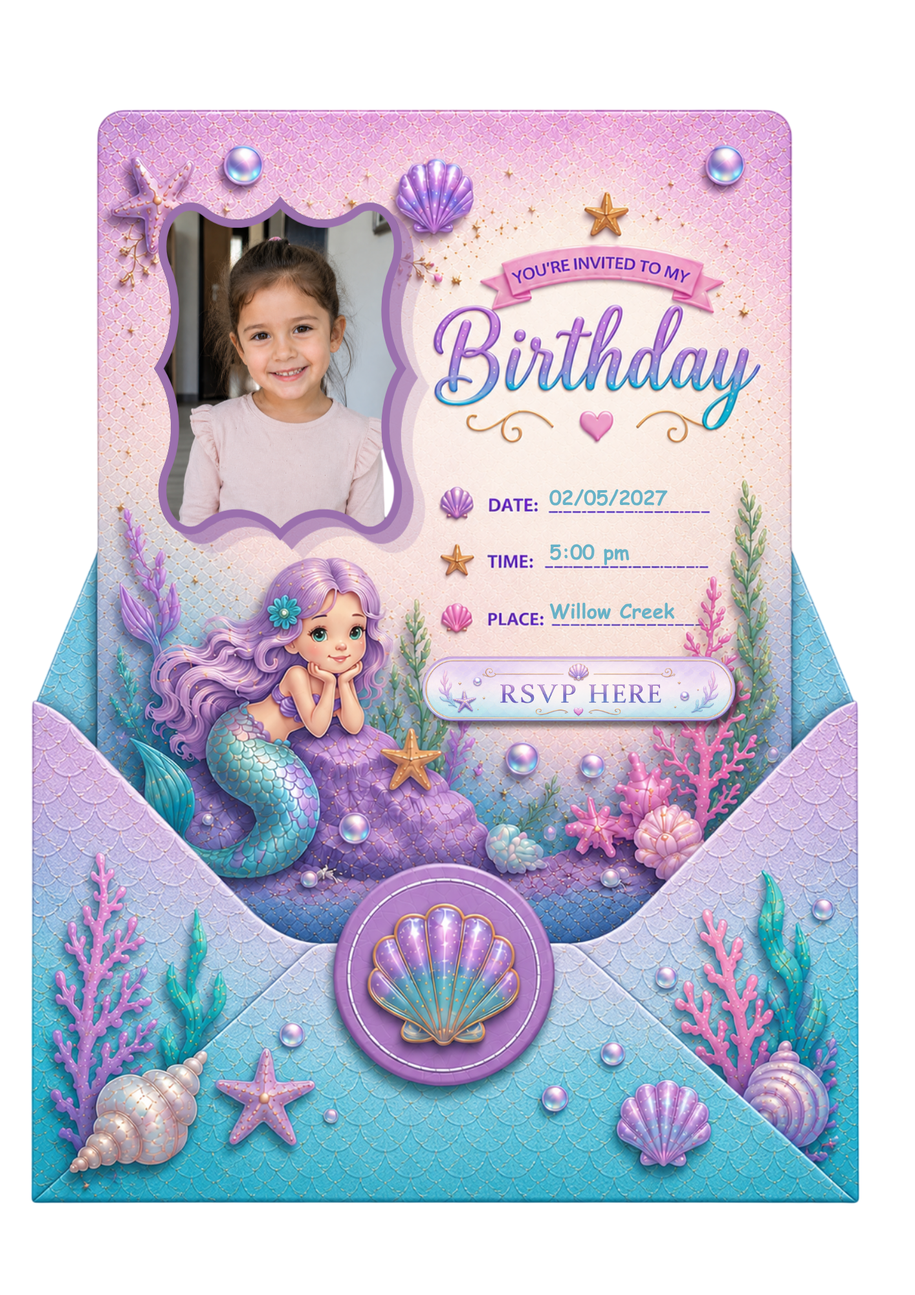
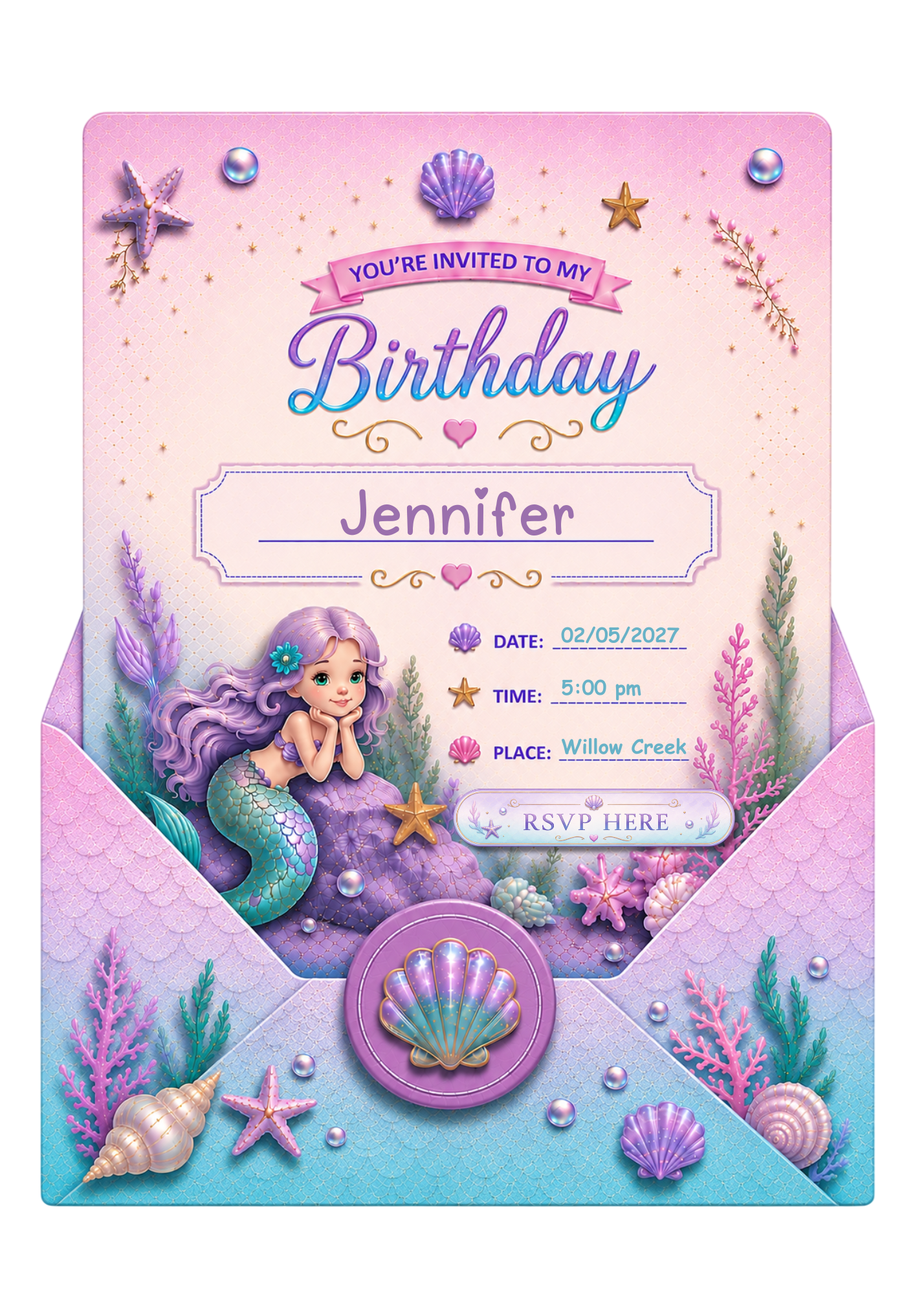
aasdd

diff --git a/src/data/colombia.ts b/src/data/colombia.ts
@@ -158,6 +158,14 @@ export const colombiaInvitations: Invitation[] = [
     country: "co",
     price: "$39",
     closedImage: "/Mermaid Party.webp",
+    openImage: "/Mermaid Party foto.webp",
+  },
+  {
+    title: "Mermaid Party",
+    category: "Cumpleaños y fiestas infantiles",
+    country: "co",
+    price: "$39",
+    closedImage: "/Mermaid Party.webp",
     openImage: "/Mermaid Party.webp",
   },
  {
